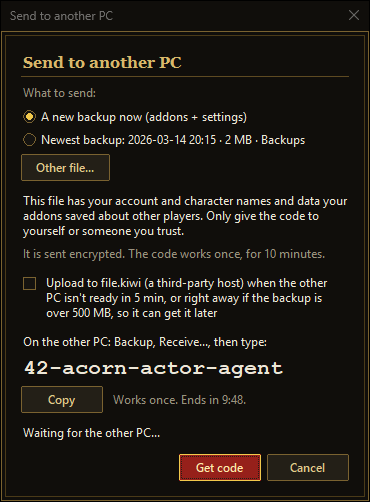
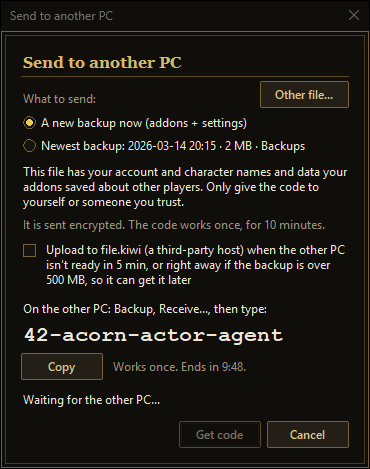
Release v0.14.1: Send retry, upload right away, backups while WoW is open, clearer texts, screenshots
- Send to another PC: after an error, Get code becomes Try again; a retry reuses the backup it just made
- New tick "Upload right away (don't wait 5 min)" when sending for later via file.kiwi
- Backups work while WoW is open (Restore still needs WoW closed)
- Clearer texts everywhere, many small look fixes; the Send window is shorter and fits small screens
- Back button in Restore, Receive fills in a copied code, error messages say where the log is, tooltips on greyed buttons
- README now has screenshots

Changed region(s): [[0.0, 0.0, 1.0, 0.8955], [0.4757, 0.8955, 0.9514, 0.9851], [0.9216, 0.209, 0.9514, 0.2388]]

diff --git a/AddonManager/am/share_ui.py b/AddonManager/am/share_ui.py
@@ -101,10 +101,21 @@ class SendDialog(backup_ui._SpokenCheck, _ShareDialog):
         # stays inside small screens (Steam Deck, 150 % on 1080p); back after an error.
         box = self.what_box = ttk.Frame(self.frame)
         box.pack(fill="x")
-        ttk.Label(box, text=errors.SEND_WHAT, style="Muted.TLabel").pack(
-            anchor="w", pady=(6, 0))
-        self.what_line = ttk.Label(self.frame, style="Muted.TLabel", wraplength=theme.px(WRAP),
-                                   justify="left")
+        # "What to send:" with Other file... at its right (one row: a shorter window).
+        head = ttk.Frame(box)
+        head.pack(fill="x", pady=(4, 0))
+        ttk.Label(head, text=errors.SEND_WHAT, style="Muted.TLabel").pack(side="left",
+                                                                          anchor="s")
+        # Folded: one line with the choice made, and after an error a Change... link that
+        # opens the choices again (what_row).
+        row = self.what_row = ttk.Frame(self.frame)
+        self.what_line = ttk.Label(row, style="Muted.TLabel", justify="left",
+                                   wraplength=theme.px(WRAP - 70))
+        self.what_line.pack(side="left", anchor="nw")
+        self.change_link = tk.Label(row, text=errors.SEND_CHANGE, cursor="hand2",
+                                    background=theme.BG, foreground=theme.LINK,
+                                    font=theme.font("underline"))
+        self.change_link.bind("<Button-1>", lambda _e: self.unfold())
         self.choice = tk.StringVar(value="new")
         settings = config.load_settings()
         self.new_radio = ttk.Radiobutton(box, value="new", variable=self.choice,
@@ -118,20 +129,24 @@ class SendDialog(backup_ui._SpokenCheck, _ShareDialog):
         self.newest_radio.pack(anchor="w", pady=(2, 0))
         self.other_radio = ttk.Radiobutton(box, text=errors.SEND_CHOSEN, value="other",
                                            variable=self.choice)
-        self.other_button = ttk.Button(box, text=errors.SEND_OTHER, command=self.pick,
+        self.other_button = ttk.Button(head, text=errors.SEND_OTHER, command=self.pick,
                                        width=max(theme.button_chars(self.frame), theme.chars(
                                            self.frame, (errors.SEND_OTHER,))))
-        self.other_button.pack(anchor="w", pady=(4, 0))
+        self.other_button.pack(side="right")
         # WoW open: a new backup still works; the strip (under the choices, only while
         # "A new backup" is picked and the choices are open) says what it holds.
         self.game_open = False
         self.game_label = backup_ui.game_strip(self.frame, errors.SEND_GAME_OPEN)
         self.private_label = ttk.Label(self.frame, text=errors.SEND_PRIVATE,
                                        wraplength=theme.px(WRAP), justify="left")
-        self.private_label.pack(anchor="w", pady=(10, 0))
+        self.private_label.pack(anchor="w", pady=(6, 0))
         self.choice.trace_add("write", lambda *_a: self._game_state())
-        ttk.Label(self.frame, text=errors.SEND_SAFE, style="Muted.TLabel", wraplength=theme.px(WRAP),
-                  justify="left").pack(anchor="w", pady=(4, 0))
+        # "Sent encrypted, works once, for 10 minutes": only while file.kiwi is off (with
+        # the tick the code works for the chosen hours and the file.kiwi note says the rest;
+        # see _later_state). It also keeps the window short.
+        self.safe_label = ttk.Label(self.frame, text=errors.SEND_SAFE, style="Muted.TLabel",
+                                    wraplength=theme.px(WRAP), justify="left")
+        self.safe_label.pack(anchor="w", pady=(4, 0))
         self._later_area()
         self.code_area = ttk.Frame(self.frame)
         self.code_area.pack(fill="x")
@@ -153,10 +168,10 @@ class SendDialog(backup_ui._SpokenCheck, _ShareDialog):
         """The WoW-open strip shows while WoW is open, "A new backup" is picked and the
         choices are open (folded while a send runs: the window stays short)."""
         want = (self.game_open and self.choice.get() == "new" and not self.closed
-                and not self.what_line.winfo_manager())
+                and not self.active)
         try:
             if want and not self.game_label.winfo_manager():
-                self.game_label.pack(fill="x", pady=(theme.px(6), 0), before=self.private_label)
+                self.game_label.pack(fill="x", pady=(theme.px(4), 0), before=self.private_label)
             elif not want and self.game_label.winfo_manager():
                 self.game_label.pack_forget()
         except tk.TclError:
@@ -182,12 +197,12 @@ class SendDialog(backup_ui._SpokenCheck, _ShareDialog):
         ok = (isinstance(hours, int) and not isinstance(hours, bool) and 1 <= hours <= 24
               and hours in share_later.HOURS)   # true / 48 / 3 in a hand-edited file -> 12
         self.hours_var = tk.IntVar(value=hours if ok else share_later.DEFAULT_HOURS)
-        area = ttk.Frame(self.frame)
-        area.pack(fill="x", pady=(10, 0))
+        area = self.later_box = ttk.Frame(self.frame)
+        area.pack(fill="x", pady=(6, 0))
         self.later_check = ttk.Checkbutton(area, variable=self.later_var,
                                            command=self.save_later)
         self.later_check.grid(row=0, column=0, sticky="nw")
-        tick_text = ttk.Label(area, text=errors.LATER_TICK, wraplength=theme.px(WRAP - 30),
+        tick_text = ttk.Label(area, text=errors.LATER_TICK, wraplength=theme.px(WRAP - 24),
                               justify="left")
         tick_text.grid(row=0, column=1, sticky="w")
         tick_text.bind("<Button-1>", lambda _e: self.toggle_later())
@@ -198,7 +213,7 @@ class SendDialog(backup_ui._SpokenCheck, _ShareDialog):
         # Upload right away (no 5-min wait for the other PC): off each time, never saved.
         self.now_var = tk.BooleanVar(value=False)
         now = ttk.Frame(rest)
-        now.pack(anchor="w", pady=(4, 0))
+        now.pack(anchor="w", pady=(2, 0))
         self.now_check = ttk.Checkbutton(now, variable=self.now_var)
         self.now_check.grid(row=0, column=0, sticky="nw")
         self.now_label = ttk.Label(now, text=errors.LATER_NOW_TICK,
@@ -206,7 +221,7 @@ class SendDialog(backup_ui._SpokenCheck, _ShareDialog):
         self.now_label.grid(row=0, column=1, sticky="w")
         self.now_label.bind("<Button-1>", lambda _e: self.toggle_now())
         keep = ttk.Frame(rest)
-        keep.pack(anchor="w", pady=(4, 0))
+        keep.pack(anchor="w", pady=(2, 0))
         ttk.Label(keep, text=errors.LATER_KEEP).pack(side="left")
         self.hours_text = tk.StringVar(value=errors.later_hours(self.hours_var.get()))
         self.hours_button = ttk.Menubutton(keep, textvariable=self.hours_text, width=9)
@@ -217,7 +232,7 @@ class SendDialog(backup_ui._SpokenCheck, _ShareDialog):
         self.hours_button["menu"] = menu
         self.hours_button.pack(side="left", padx=(6, 0))
         links = ttk.Frame(rest)
-        links.pack(anchor="w", pady=(4, 0))
+        links.pack(anchor="w", pady=(2, 0))
         self.later_links = []
         for text, url in ((errors.LATER_TERMS, share_later.TERMS_URL),
                           (errors.LATER_PRIVACY, share_later.PRIVACY_URL)):
@@ -226,8 +241,8 @@ class SendDialog(backup_ui._SpokenCheck, _ShareDialog):
             link.pack(side="left", padx=(0, 10))
             link.bind("<Button-1>", lambda _e, u=url: self.app.open_link(u))
             self.later_links.append(link)
-        ttk.Label(rest, text=errors.LATER_NOTE, style="Muted.TLabel", wraplength=theme.px(WRAP - 30),
-                  justify="left").pack(anchor="w", pady=(4, 0))
+        ttk.Label(rest, text=errors.LATER_NOTE, style="Muted.TLabel", wraplength=theme.px(WRAP - 24),
+                  justify="left").pack(anchor="w", pady=(2, 0))
         self._later_state()
 
     def toggle_later(self):
@@ -248,6 +263,10 @@ class SendDialog(backup_ui._SpokenCheck, _ShareDialog):
         ticked = bool(self.later_var.get())
         if not ticked:
             self.now_var.set(False)
+        if ticked and self.safe_label.winfo_manager():
+            self.safe_label.pack_forget()
+        elif not ticked and not self.safe_label.winfo_manager():
+            self.safe_label.pack(anchor="w", pady=(4, 0), before=self.later_box)
         show = ticked and not self.active   # folded away while a send runs (_fold)
         if show and not self.later_rest.winfo_manager():
             self.later_rest.grid(row=1, column=1, sticky="w")
@@ -286,7 +305,7 @@ class SendDialog(backup_ui._SpokenCheck, _ShareDialog):
             self.other = path
             self.other_radio.configure(text=errors.SEND_CHOSEN + os.path.basename(path))
             if not self.other_radio.winfo_manager():
-                self.other_radio.pack(anchor="w", pady=(2, 0), before=self.other_button)
+                self.other_radio.pack(anchor="w", pady=(2, 0), after=self.newest_radio)
             self.choice.set("other")
 
     def chosen_path(self):
@@ -368,33 +387,44 @@ class SendDialog(backup_ui._SpokenCheck, _ShareDialog):
             w.destroy()
         self.code_area.configure(height=1)   # the emptied frame shrinks back
 
-    def _fold(self, folded):
+    def _fold(self, folded, change=False):
         """While a send runs, "What to send" is one line (the choice made) and the
-        file.kiwi details are hidden: the window stays short (Steam Deck: 800 px)."""
+        file.kiwi details are hidden: the window stays short (Steam Deck: 800 px). After an
+        error that Try again can fix it stays one line, with Change... (change=True) to open
+        the choices again; the file.kiwi details come back (they show before every try)."""
         try:
             if folded:
                 radio = {"newest": self.newest_radio, "other": self.other_radio}.get(
                     self.choice.get(), self.new_radio)
                 self.what_line.configure(text=errors.SEND_WHAT + " " + " ".join(
                     str(radio.cget("text")).split()))
-                if not self.what_line.winfo_manager():
-                    self.what_line.pack(anchor="w", pady=(6, 0), before=self.what_box)
+                if change and not self.change_link.winfo_manager():
+                    self.change_link.pack(side="right", anchor="ne", padx=(theme.px(8), 0))
+                elif not change and self.change_link.winfo_manager():
+                    self.change_link.pack_forget()
+                if not self.what_row.winfo_manager():
+                    self.what_row.pack(fill="x", pady=(6, 0), before=self.what_box)
                 self.what_box.pack_forget()
-                self._later_state()   # active: the file.kiwi details fold away too
-                self._game_state()
             else:
                 if not self.what_box.winfo_manager():
-                    self.what_box.pack(fill="x", before=self.what_line)
-                self.what_line.pack_forget()
-                self._later_state()   # the file.kiwi details back while ticked
-                self._game_state()
+                    self.what_box.pack(fill="x", before=self.what_row)
+                self.what_row.pack_forget()
+            self._later_state()   # hidden while a send runs, back while ticked
+            self._game_state()
         except tk.TclError:
             pass   # the window is closing
 
+    def unfold(self):
+        """Change... after an error: the choices open again."""
+        if self.active or self.closed:
+            return
+        self._fold(False)
+
     def _after_error(self, retry):
         """The window works again: the choices as they were, and Try again (or Get code when
-        the same try can't work, e.g. a picked file that isn't a backup). Click-only."""
-        self._fold(False)
+        the same try can't work, e.g. a picked file that isn't a backup). Click-only.
+        Try again: "What to send" stays one line (Change... opens it); Get code: open."""
+        self._fold(bool(retry), change=True)
         for w in (self.new_radio, self.other_radio, self.other_button, self.go_button,
                   self.later_check):
             w.state(["!disabled"])

diff --git a/AddonManager/tests/test_look.py b/AddonManager/tests/test_look.py
@@ -233,6 +233,7 @@ class LookWindowTests(unittest.TestCase):
         self.assertEqual(len({height(b) for b in buttons}), 1, name)
 
     def check_dialog(self, win, name):
+        self.check_height(win, name)   # every dialog fits a small screen too
         buttons = self.check_buttons(win, name)
         self.assertTrue(buttons, name)
         rows = {}
@@ -259,7 +260,8 @@ class LookWindowTests(unittest.TestCase):
                                         f"{name}: {b.cget('text')!r} narrower than a row button")
 
     # The tallest a window may be (its content, no title bar): a Steam Deck screen is 800 px
-    # (Linux stand-in at 100 %: 760), a 1080p laptop at 150 % about 1000 px. None = no check.
+    # (Linux stand-in at 100 %: 760), a 1080p laptop at 150 % about 1000 px (the Linux
+    # stand-in at 150 %: 960, see test_buttons_linux_fonts_150). None = no check.
     height_limit = 760
 
     def check_height(self, win, name):
@@ -419,11 +421,25 @@ class LookWindowTests(unittest.TestCase):
                                      width(d.win), "upload right away text cut")
                 self.assertLessEqual(lab.winfo_reqwidth(), int(lab.cget("wraplength")) + 2)
                 self.assertLessEqual(d.win.winfo_reqwidth(), theme.px(420), "send width")
+                # Try again: "What to send" stays one line with Change...; the file.kiwi
+                # note shows (it is shown before every try)
+                self.assertTrue(d.what_row.winfo_manager())
+                self.assertTrue(d.change_link.winfo_manager())
+                self.assertTrue(d.later_rest.winfo_manager())
                 self.check_height(d.win, "send (ticks on, after an error)")
+                # Change...: every choice open again, ticks on, WoW open, error still shown
+                d.unfold()
+                self.assertTrue(d.what_box.winfo_manager())
+                self.assertFalse(d.what_row.winfo_manager())
+                d.win.update_idletasks()
+                self.check_dialog(d.win, "send (choices open after an error)")
+                self.assertLessEqual(d.win.winfo_reqwidth(), theme.px(420), "send width (open)")
+                self.check_height(d.win, "send (choices open, ticks on, after an error)")
                 d.active = True
                 d.later = d.later_choice()
                 d._fold(True)            # what start() does: the choices fold to one line
-                self.assertTrue(d.what_line.winfo_manager())
+                self.assertTrue(d.what_row.winfo_manager())
+                self.assertFalse(d.change_link.winfo_manager())
                 self.assertFalse(d.what_box.winfo_manager())
                 d.show_code(share.format_code(37, share.new_words()), 600)
                 d.handle(("share_later", d.tag, "uploading", "now"))
@@ -535,7 +551,9 @@ class LookWindowTests(unittest.TestCase):
         """Linux fonts at 150 % (the CI's 150 % is 1.56)."""
         factor = self.linux_on_windows() * 1.5 if os.name == "nt" else 1.5
         self.root.tk.call("tk", "scaling", self.base_scaling * factor)
-        self.height_limit = None   # no 150 % on the Steam Deck's own screen
+        # The real Linux CI runs test_buttons_150 with these fonts against 1000 px; the
+        # stand-in measured 1030 where the CI measured 1028, so 960 here keeps a margin.
+        self.height_limit = 960
         self.run_checks()
 
     # ---------- the scrolling list ----------

diff --git a/AddonManager/tests/test_share.py b/AddonManager/tests/test_share.py
@@ -2010,9 +2010,19 @@ class WindowShareTests(unittest.TestCase):
         self.pump_until(app, lambda: not dlg.active)
         dlg._after_error(True)                                     # as after a failed try
         self.assertNotIn("disabled", dlg.now_check.state())
-        self.assertTrue(dlg.what_box.winfo_manager())              # unfolded again
-        self.assertFalse(dlg.what_line.winfo_manager())
+        # Try again: still one line, with Change...; the file.kiwi note shows again
+        self.assertFalse(dlg.what_box.winfo_manager())
+        self.assertTrue(dlg.change_link.winfo_manager())
         self.assertTrue(dlg.later_rest.winfo_manager())
+        self.assertFalse(dlg.safe_label.winfo_manager())          # file.kiwi on: hours apply
+        dlg.unfold()                                               # Change...: choices open
+        self.assertTrue(dlg.what_box.winfo_manager())
+        self.assertFalse(dlg.what_row.winfo_manager())
+        dlg._after_error(False)                                    # Get code: choices open
+        self.assertTrue(dlg.what_box.winfo_manager())
+        dlg.toggle_later()                                         # file.kiwi off: 10-min line
+        self.assertTrue(dlg.safe_label.winfo_manager())
+        dlg.toggle_later()
         dlg.close()
         again = app.open_send(show=False)                          # off each time
         self.assertTrue(again.later_var.get())

diff --git a/AddonManager/am/errors.py b/AddonManager/am/errors.py
@@ -403,6 +403,7 @@ def send_new(addons=True, settings=True):
 
 SEND_NEWEST = "Newest backup: "
 SEND_OTHER = "Other file..."
+SEND_CHANGE = "Change..."   # after an error: opens "What to send" again
 SEND_CHOSEN = "File: "
 SEND_PRIVATE = ("This file has your account and character names and data your addons saved "
                 "about other players. Only give the code to yourself or someone you trust.")

diff --git a/AddonManager/am/__init__.py b/AddonManager/am/__init__.py
@@ -1,4 +1,4 @@
 """Guild Addon Manager: installs and updates the guild's WoW Forever addons."""
 
 APP_NAME = "Guild Addon Manager"
-APP_VERSION = "0.14.0"
+APP_VERSION = "0.14.1"
